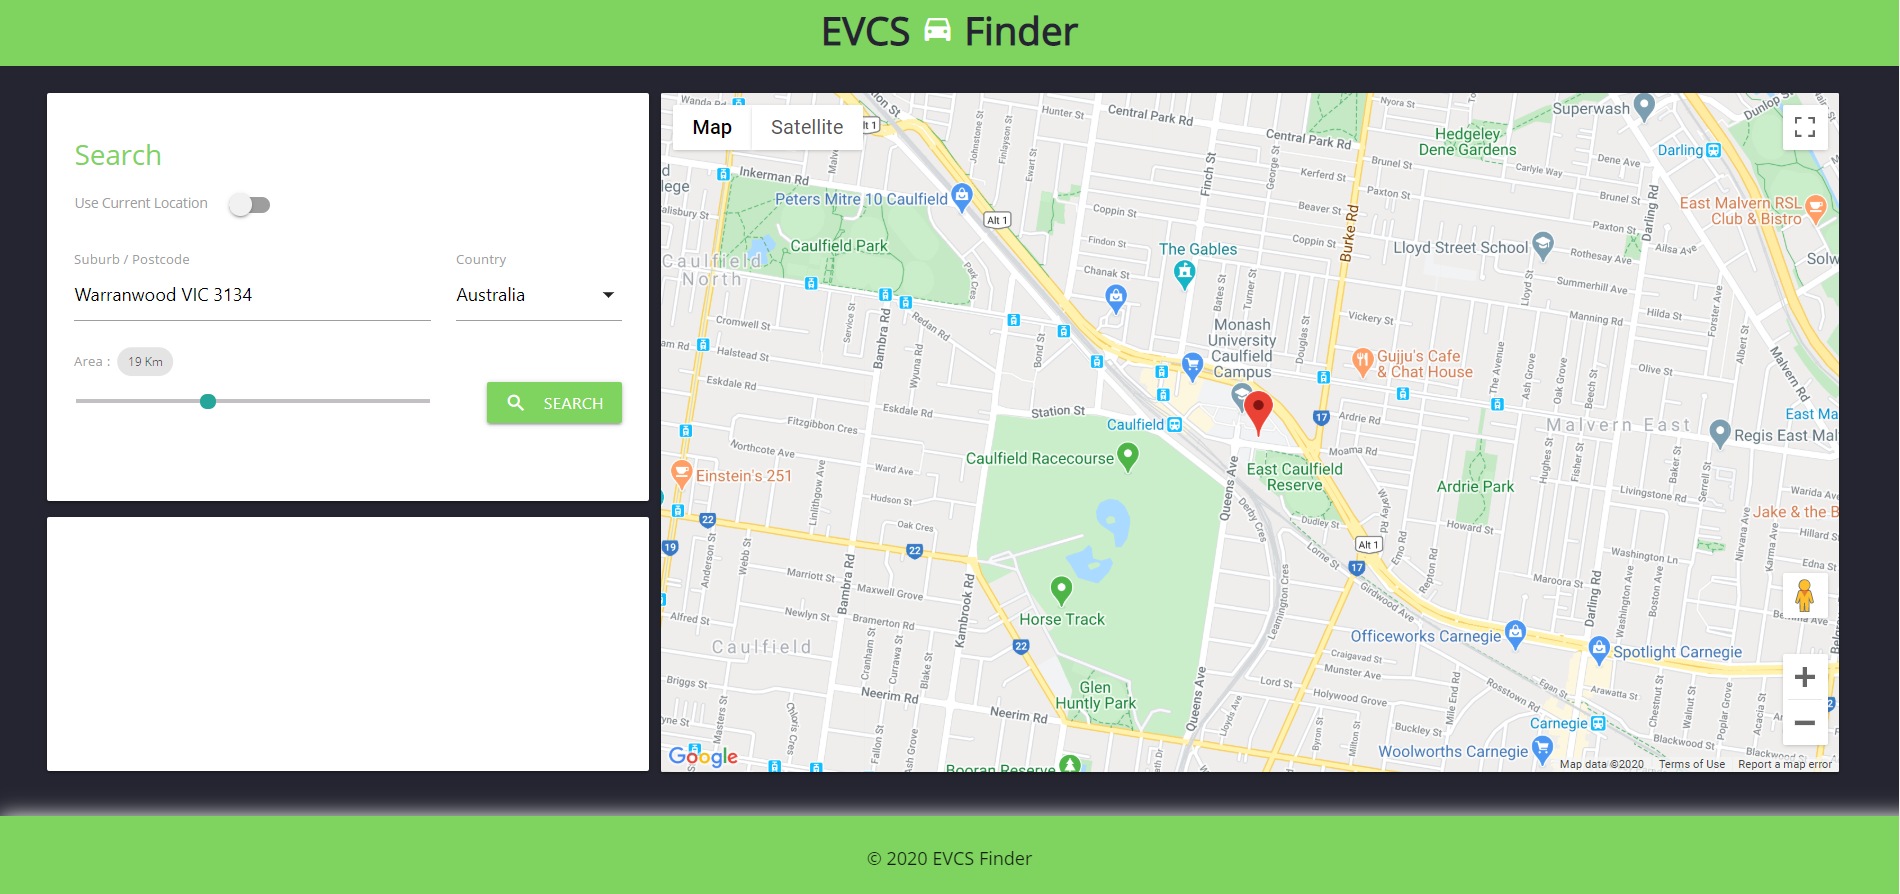
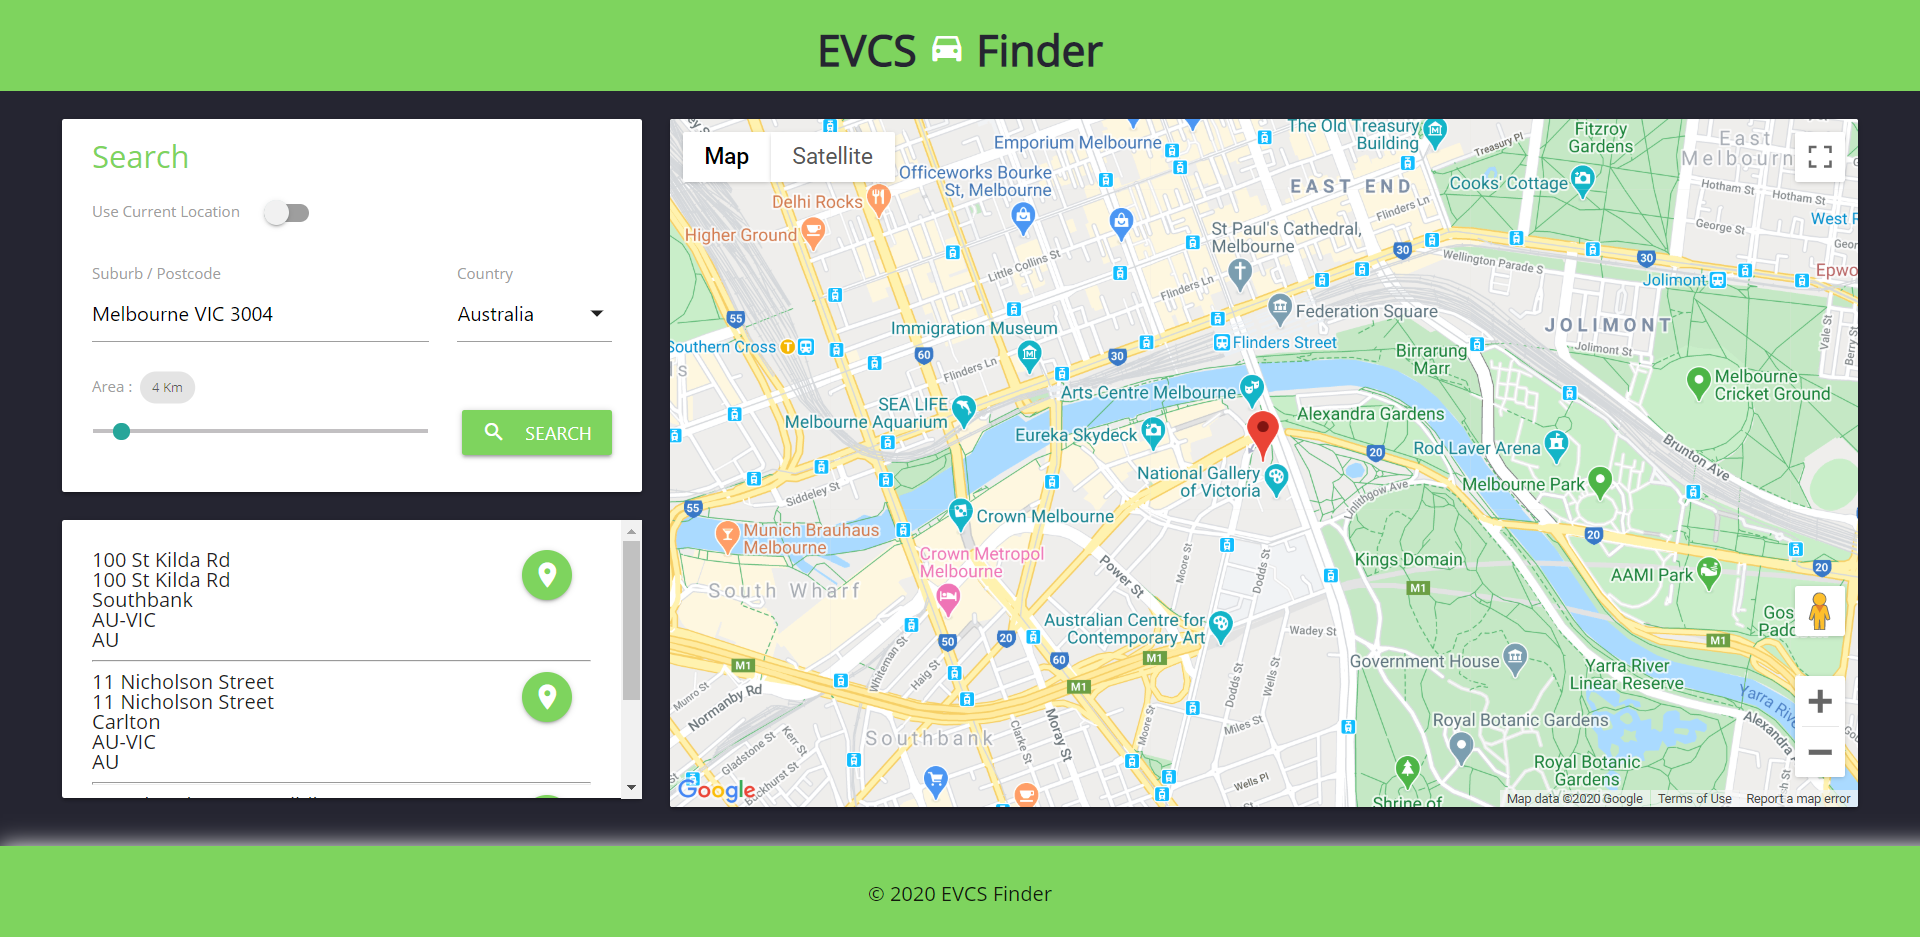
updated ui issues and bug fixes

diff --git a/index.html b/index.html
@@ -29,59 +29,61 @@
         <div class="row">
             <div class="col s12 l4">
                 <!-- Search Panel -->
-                <div class="row">
-                    <div class="card-panel">
-                        <form class="card-content">
-                            <div class="row no-margin">
-                                <div class="input-field col s12 no-margin">
-                                    <h5 class="evcs-text-color">Search</h5>
+                <div class="card-panel search-container">
+                    <form class="card-content no-margin">
+                        <div class="row no-margin">
+                            <div class="input-field col s12 no-margin">
+                                <h5 class="evcs-text-color">Search</h5>
+                            </div>
+                        </div>
+                        <div class="row">
+                            <div class="input-field col s12">
+                                <div class="switch">
+                                    <label for="current-location">
+                                        Use Current Location
+                                        <input type="checkbox" id="current-location">
+                                        <span class="lever"></span>
+                                    </label>
                                 </div>
                             </div>
-                            <div class="row">
-                                <div class="input-field col s12">
-                                    <div class="switch">
-                                        <label for="current-location">
-                                            Use Current Location
-                                            <input type="checkbox" id="current-location">
-                                            <span class="lever"></span>
-                                        </label>
-                                    </div>
-                                </div>
+                        </div>
+                        <div class="row no-margin" id="search-by-location">
+                            <div class="input-field col s12 m8">
+                                <label for="search-suburb" class="active">Suburb / Postcode</label>
+                                <input placeholder="Enter suburb or postcode" id="search-suburb" type="text"
+                                    class="autocomplete select-font">
                             </div>
-                            <div class="row no-margin" id="search-by-location">
-                                <div class="input-field col s12 m8">
-                                    <label for="search-suburb" class="active">Suburb / Postcode</label>
-                                    <input placeholder="Enter suburb or postcode" id="search-suburb" type="text"
-                                        class="autocomplete select-font">
-                                </div>
-                                <div class="input-field col s12 m4">
-                                    <label for="search-country" class="active">Country</label>
-                                    <select id="search-country" class="select-font">
-                                        <option value="AU" selected>Australia</option>
-                                        <option value="US">United States</option>
-                                    </select>
-                                </div>
+                            <div class="input-field col s12 m4">
+                                <label for="search-country" class="active">Country</label>
+                                <select id="search-country" class="select-font">
+                                    <option value="AU" selected>Australia</option>
+                                    <option value="US">United States</option>
+                                </select>
                             </div>
-                            <div class="row no-margin">
-                                <div class="input-field col s12 m9 l8">
-                                    <label for="search-area" class="active">Area : &nbsp;<span class="chip">
-                                            <span id="search-area-value">5</span>
-                                            Km</span></label>
-                                    <p class="range-field" id="range-field">
-                                        <input type="range" id="search-area" min="1" max="50" value="5" />
-                                    </p>
-                                </div>
-                                <div class="input-field col s12 m3 l4 right-align search-button-margin">
-                                    <button class="btn waves-effect waves-light" type="submit" id="search-evcs">
-                                        Search<i class="material-icons left">search</i></span>
-                                    </button>
-                                </div>
+                        </div>
+                        <div class="row no-margin">
+                            <div class="input-field col s12 m9 l8">
+                                <label for="search-area" class="active">Area : &nbsp;<span class="chip">
+                                        <span id="search-area-value">5</span>
+                                        Km</span></label>
+                                <p class="range-field" id="range-field">
+                                    <input type="range" id="search-area" min="1" max="50" value="5" />
+                                </p>
                             </div>
-                        </form>
+                            <div class="input-field col s12 m3 l4 right-align search-button-margin">
+                                <button class="btn waves-effect waves-light" type="submit" id="search-evcs">
+                                    Search<i class="material-icons left">search</i></span>
+                                </button>
+                            </div>
+                        </div>
+                    </form>
+                </div>
+                <div class="row no-margin">
+                    <div class="col s12 no-margin">
+                        <!-- Search Results Panel -->
+                        <div class="card-panel" id="search-results"></div>
+                        <!-- Search Results Panel -->
                     </div>
-                    <!-- Search Results Panel -->
-                    <div class="card-panel" id="search-results"></div>
-                    <!-- Search Results Panel -->
                 </div>
             </div>
             <!-- Search Panel -->
@@ -110,7 +112,6 @@
     <script src="assets/script/location-helper.js"></script>
     <script src="assets/script/script.js"></script>
     <script src="assets/script/evcs-finder.js"></script>
-    <script type="text/javascript" src="assets/script/map.js"></script>
     <script src="https://maps.googleapis.com/maps/api/js?key=AIzaSyAYyoWxXKt75suUV_xu4YTyWA1Cq850DTs&callback=initMap"
         async defer></script>
 </body>

diff --git a/assets/script/script.js b/assets/script/script.js
@@ -1,7 +1,7 @@
 // Note: This javascript file references classes and functions from location-helper.js
 var EVAPIKey = "21867314-57f0-4dcd-a708-cb5cd1571737";
 
-$(document).ready(function() {
+$(document).ready(function () {
   var locationHelper = new LocationHelper();
 
   /** Executes the Search for the criteria specified */
@@ -71,7 +71,9 @@ $(document).ready(function() {
   function displayMatchingSuburbs(response) {
     var dataSuburbs = locationHelper.parseLocations(response);
     $("#search-suburb").autocomplete("updateData", dataSuburbs);
-    $("#search-suburb").autocomplete("open");
+    if ($("#search-suburb").is(":focus")) {
+      $("#search-suburb").autocomplete("open");
+    }
   }
 
   /** Update search radius text when user moves range slider */
@@ -150,12 +152,17 @@ $(document).ready(function() {
     $.ajax({
       url: qURL + $.param(queryParams),
       method: "GET"
-    }).then(function(response) {
+    }).then(function (response) {
       var title;
       var addressLine1;
       var town;
       var state;
       var postcode;
+      if (response.length <= 0) {
+        // No records found
+        $("#search-results").html("No results found!");
+        return;
+      }
 
       for (var i = 0; i < response.length; i++) {
         var latt = response[i].AddressInfo.Latitude;
@@ -179,34 +186,36 @@ $(document).ready(function() {
         }
         var resultDiv = $("<div>");
         resultDiv.html(
+          "<button data-lat='" +
+          latt +
+          "' data-long='" +
+          longg +
+          "' class='btn-floating selectStationBtn evcs-back-color right'><i class='material-icons'>location_on</i></button>" +
           "<span id='title" +
-            i +
-            "' class='location-info'>" +
-            title +
-            "</span><span id='addressLine1" +
-            i +
-            "' class='location-info'>" +
-            addressLine1 +
-            "</span><span id='town" +
-            i +
-            "' class='location-info'>" +
-            town +
-            "</span><span id='state" +
-            i +
-            "' class='location-info'>" +
-            state +
-            "</span><span id='postcode" +
-            i +
-            "' class='location-info'>" +
-            postcode +
-            "</span><button data-lat='" +
-            latt +
-            "' data-long='" +
-            longg +
-            "' class='selectStationBtn'>Select</button><hr />"
+          i +
+          "' class='location-info'>" +
+          title +
+          "</span><span id='addressLine1" +
+          i +
+          "' class='location-info'>" +
+          addressLine1 +
+          "</span><span id='town" +
+          i +
+          "' class='location-info'>" +
+          town +
+          "</span><span id='state" +
+          i +
+          "' class='location-info'>" +
+          state +
+          "</span><span id='postcode" +
+          i +
+          "' class='location-info'>" +
+          postcode +
+          "</span><hr />"
         );
 
         $("#search-results").append(resultDiv);
+        $('.fixed-action-btn').floatingActionButton();
       }
     });
   }

diff --git a/assets/script/location-helper.js b/assets/script/location-helper.js
@@ -52,14 +52,23 @@ class LocationHelper {
      * @returns {string} address geocode query URL
      */
     buildAddressGeocodeURL(address, country) {
-        var queryUrl = "http://api.geonames.org/geoCodeAddressJSON?";
-        // Remove all numbers / postcode from address
-        var queryAddress = address.replace(/\d+/g, "").trim();
+        var queryUrl;
+        var postalcode = parseInt(address);
         var queryParams = {
-            "q": queryAddress,
             "country": country,
             "username": geonamesAPIUsername
         };
+        if (isNaN(postalcode) == false && postalcode > 0 && postalcode == address) {
+            // Search by postcode
+            queryUrl = "https://secure.geonames.org/postalCodeLookupJSON?";
+            queryParams.postalcode = postalcode;
+            queryParams.maxRows = 1;
+        } else {
+            // Remove all numbers / postcode from address
+            queryUrl = "https://secure.geonames.org/geoCodeAddressJSON?";
+            var queryAddress = address.replace(/\d+/g, "").trim();
+            queryParams.q = queryAddress;
+        }
         return queryUrl + $.param(queryParams);
     }
 
@@ -71,7 +80,7 @@ class LocationHelper {
      */
     buildAddressSearchURL(address, country) {
         var postalcode = parseInt(address);
-        var queryUrl = "http://api.geonames.org/postalCodeSearchJSON?";
+        var queryUrl = "https://secure.geonames.org/postalCodeSearchJSON?";
         var queryParams = {
             "country": country,
             "username": geonamesAPIUsername
@@ -202,7 +211,13 @@ class LocationHelper {
                 successHandler(response.address.lat, response.address.lng, searchCriteria.radius);
                 return;
             }
+        } else if ("postalcodes" in response) {
+            if (response.postalcodes != undefined && response.postalcodes.length > 0) {
+                this.updateSearchCriteria(searchCriteria);
+                successHandler(response.postalcodes[0].lat, response.postalcodes[0].lng, searchCriteria.radius);
+                return;
+            }
         }
-        errorHandler("No results found for this address!");
+        successHandler(0, 0, searchCriteria.radius);
     }
 }

diff --git a/assets/css/style.css b/assets/css/style.css
@@ -5,18 +5,7 @@ body {
   font-size: 16px;
   margin-bottom: 5rem;
   line-height: 1;
-  /* Added for sticky footer support */
-  display: flex; 
-  min-height: 100vh;
-  flex-direction: column;
-  /* Added for sticky footer support */
 }
-
-/* Added for sticky footer support */
-main {
-  flex: 1 0 auto;
-}
-/* Added for sticky footer support */
  
 .evcs-header {
     height: 5rem;
@@ -41,6 +30,8 @@ main {
   padding-top: 1%;
   max-width: 95%;
   width: 95%;
+  max-height: 75%;
+  height: 75%;
 }
 
 .no-margin {
@@ -61,15 +52,18 @@ main {
 
 /* Map related CSS*/
 #map {
-  height: 83.3%;
-  width: 100%;
+  height: 100%;
+  width: auto;
   padding: 1 rem;
-  margin-bottom: 5rem;
 }
 
 #search-results {
-  min-height: 15rem;;
   margin-bottom: 5rem;
+  padding-bottom: 1rem;
+  min-height: 200px;
+  max-height: calc(75% - 190px);
+  height: auto;
+  overflow-y: auto;
 }
  
 html, body {
@@ -91,6 +85,16 @@ html, body {
   text-align: center;
   padding-top: 2rem;
   box-shadow: 20px 20px 18px 20px #ffffff;
+  z-index: 1;
+}
+
+.search-container{
+  padding-top: 0%;
+  padding-bottom: 0%;
+}
+
+.selectStationBtn{
+  margin-right: 1rem;
 }
 
 /* "search" button margin scales for smaller viewports*/
@@ -98,4 +102,14 @@ html, body {
   .search-button-margin{
     margin-top: auto;
   }  
+}  
+
+@media (max-width: 992px) {
+  #search-results {
+    margin-bottom: 1rem;
+  }
+  
+  #map {
+    margin-bottom: 5rem;
+  }
 }

diff --git a/README.md b/README.md
@@ -4,6 +4,7 @@
 
 ## Description
 The EVCS Finder helps you find the nearest charging station(CS) to charge your electric vehicle (EV). As buyers around the world embrace more efficient, eco-friendly options, the use of Electric and Hybrid cars continue to grow. This poses a unique challenge for an electric vehicle owner to identify reliable charging locations. 
+
 The EVCS Finder aims to solve this problem by providing users with a list of nearby charging stations based on their current location. The application also provides users the ability to search for charging stations for a given location / destination. This is important because electric vehicles usually take a while to charge and this feature helps users paln their journey better.
 
 ## Features
@@ -16,8 +17,11 @@ This application uses the below third party APIs to fetch location and charging 
 We used the [Postal Code Search API](https://www.geonames.org/export/web-services.html#postalCodeSearch) to retrieve location data for suburbs / postcodes to enable autocomplete when the user types in a suburb. 
 We also used the [Geocode Address API](https://www.geonames.org/maps/addresses.html#geoCodeAddress) to retrieve the geocode - latitude and longitude for a given address typed in by the user.
 
+#### [Open Charge Map API](https://openchargemap.org/site/develop/api) 
+We used the [Open Charge Map API](https://openchargemap.org/site/develop/api) to fetch the charging station details matching  the location selected. 
+
 #### [Google Maps API](https://developers.google.com/maps/documentation?hl=en_GB) 
-We used the [Google Maps Static API](https://developers.google.com/maps/documentation/maps-static/intro?hl=en_GB) to display the location of a charging station on Google Maps. 
+We used the [Google Maps Static API](https://developers.google.com/maps/documentation/maps-static/intro) to display the location of a charging station on Google Maps. 
 
 ## Functionality
 
@@ -29,6 +33,6 @@ When the EVCS Finder application is opened, it displays the location search form
 * When searching by an address, users can then select a country and enter either the postcode or suburb they wish to search for. The location box will display a list of matching suburbs when the user types in the same. The user can also choose to enter a specific address as well.  
 * If the search location is not specified when the user clicks the search button,a validation message is displayed to the user. 
 * When the application is closed and re-opened, the details of the last searched location is loaded up by default.
-* Once the search is executed, a list of charging stations available at the search location is displayed. 
+* Once the search is executed, a list of charging stations available at the search location is displayed.
 * If no charging stations are found for a given location, a message is displayed to the user.
 * When the user clicks on the drop a pin button for a given charging station, the map loads up the location details for that station.
